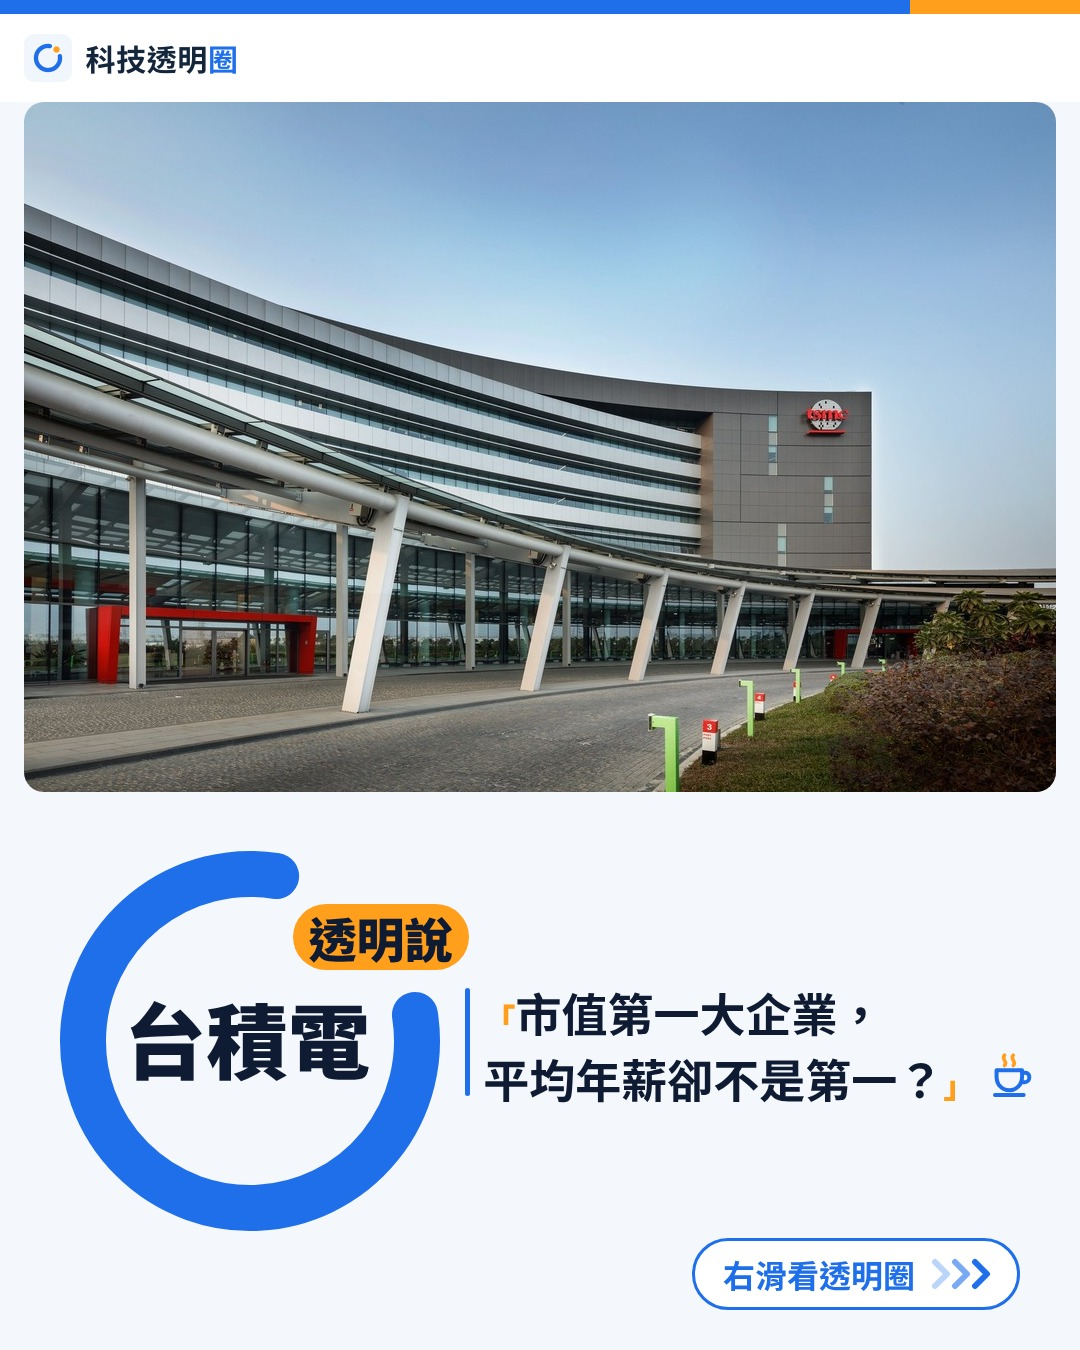
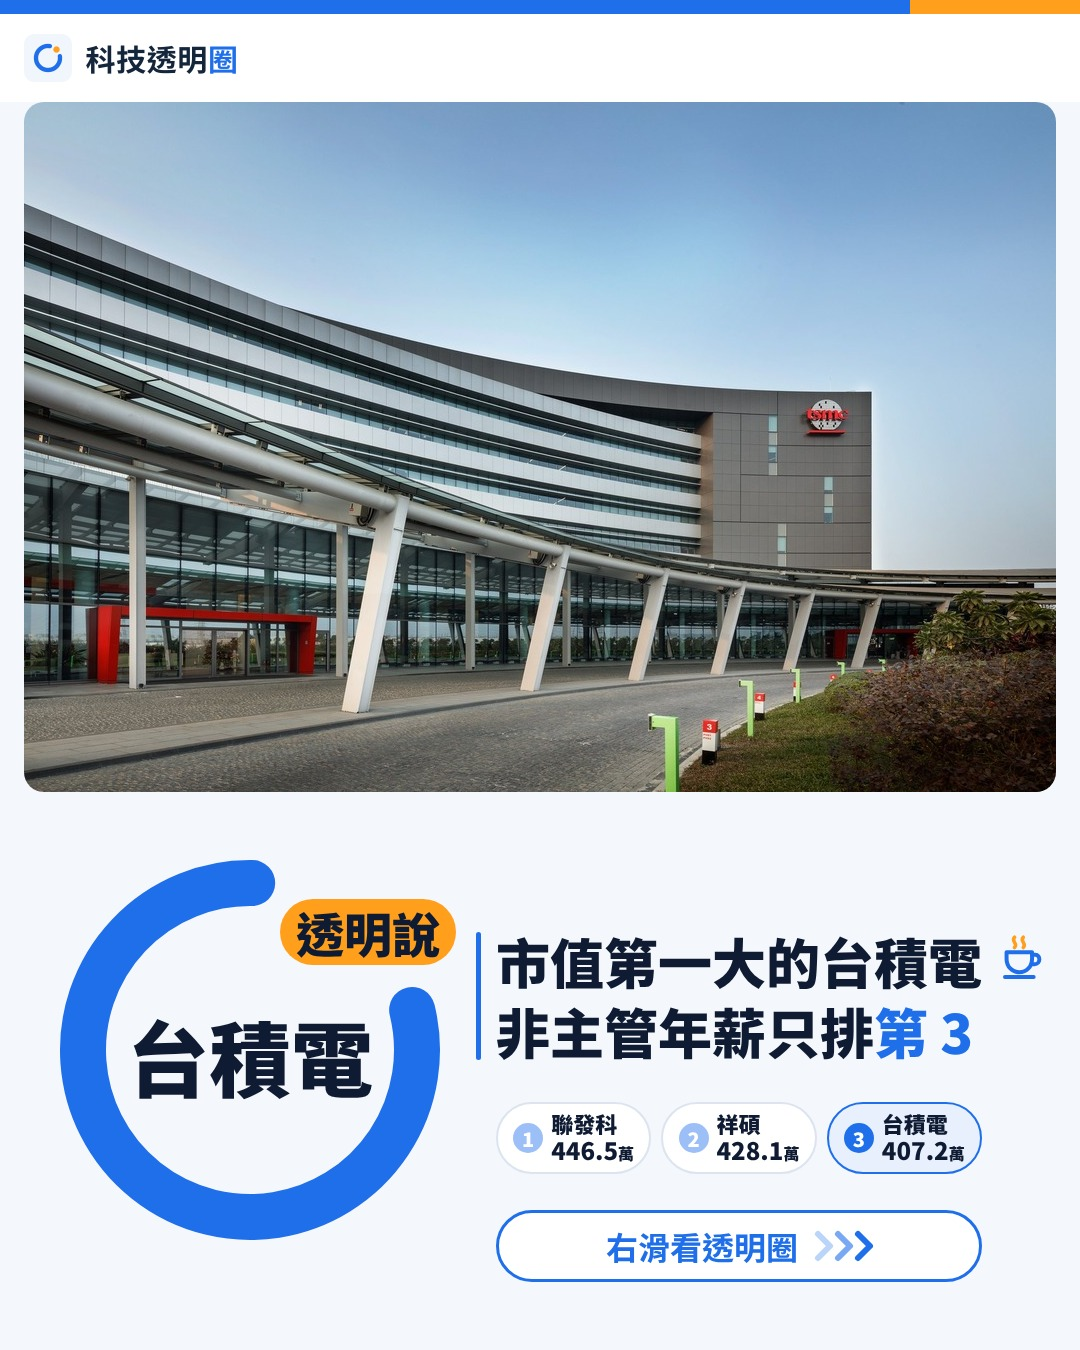
科技透明圈：年薪榜法遵修改版 Andy 核准，恢復 11/15 11:00 發文
Claude-Session: https://claude.ai/code/session_018gakVRNRsek4G6osuECGNS

diff --git a/social/tc/queue/20261115_salaryrank/post.md b/social/tc/queue/20261115_salaryrank/post.md
@@ -1,6 +1,6 @@
 ---
 channel: tc
-status: draft
+status: approved
 scheduled_at: 2026-11-15T11:00+08:00
 platforms: ig, threads
 images: 1_cover.jpg, 2_listed.jpg, 3_otc.jpg, 4_why.jpg
@@ -10,4 +10,4 @@ title: 上市櫃非主管年薪榜（台積電為什麼不是第一）
 
 - 2026-11-11 Andy 核准（原話：「核准」）。圖：封面 T20（台積電官方照）＋上市前 15＋上櫃前 15＋原因頁。
 - 資料：docs/marketing/channels/tc/data/nonmgr_salary_2025.csv（證交所 t187ap46_L_5、櫃買 t187ap46_O_5 官方開放資料）。
-- 2026-11-11 CEO 暫停：法遵複審列 4 項必改（封面授權、政府資料顯名、LOGO 尺寸、聯發科用詞），等 Andy 看過修改版再核准，核准後改回 approved。
+- 2026-11-11 法遵修改版（封面 A 版標題「市值第一大的台積電／非主管年薪只排第 3」、出處顯名、LOGO 縮小、聯發科用詞）Andy 再次核准（原話：「核准」）。封面照片照 Andy 決定用 T20（法遵提醒中度下架風險，被要求即換圖）。
